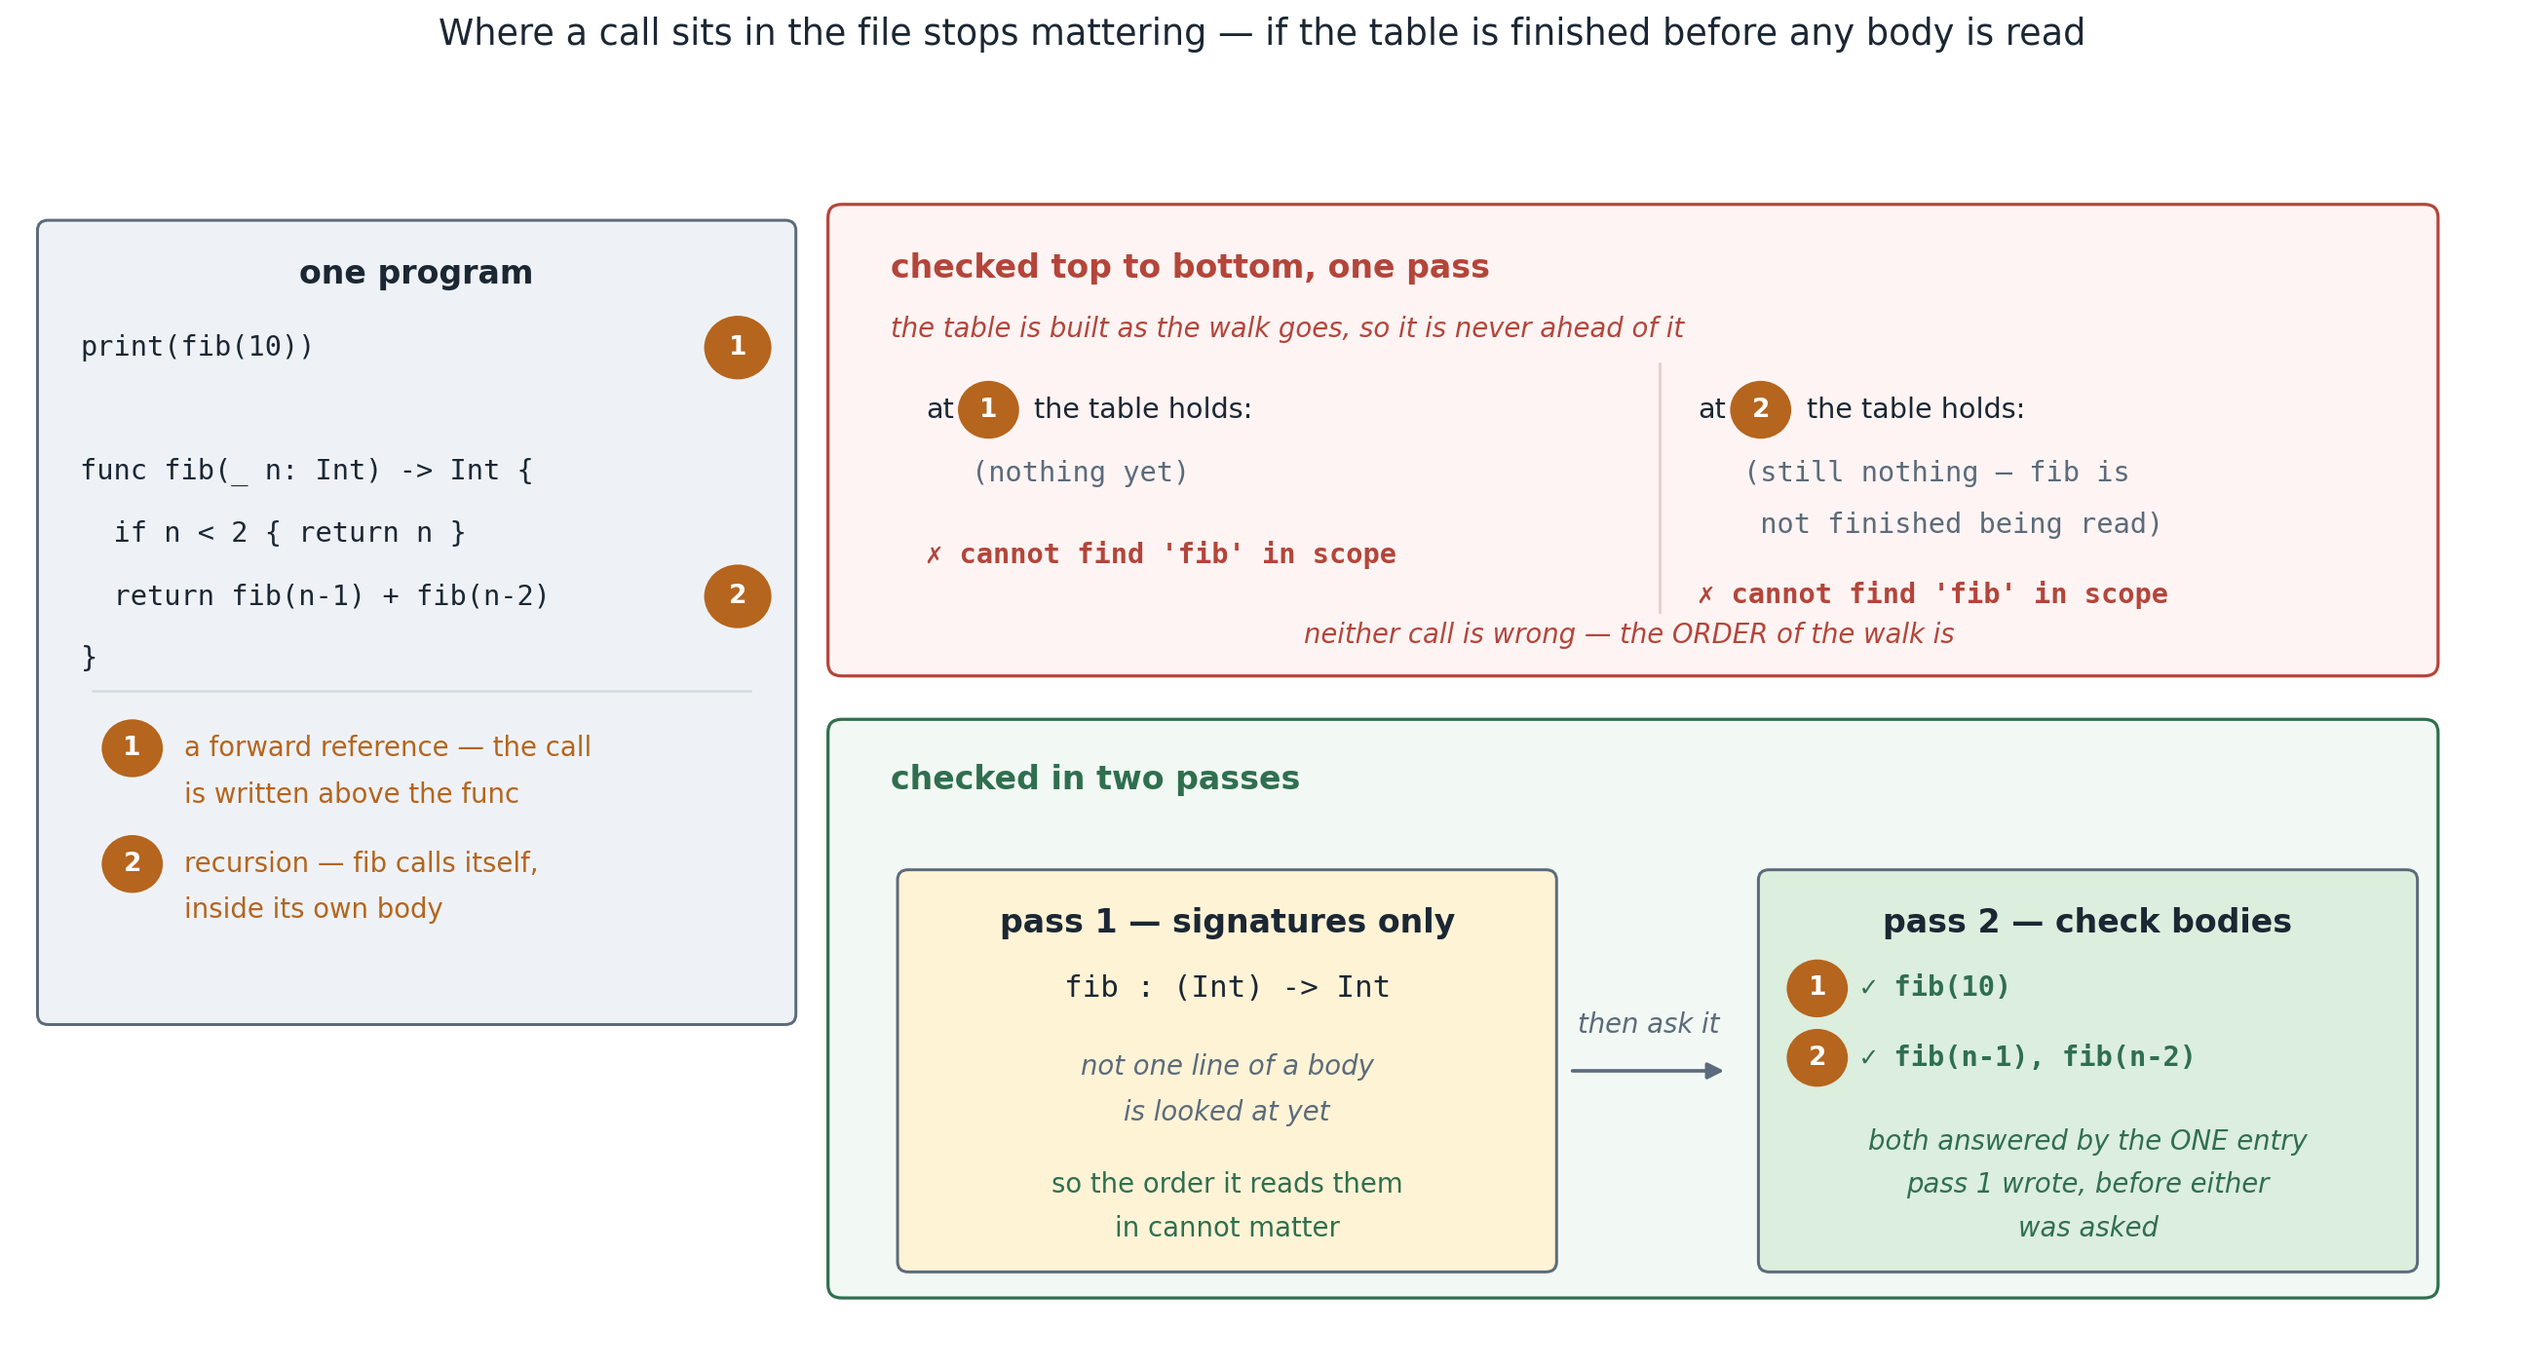
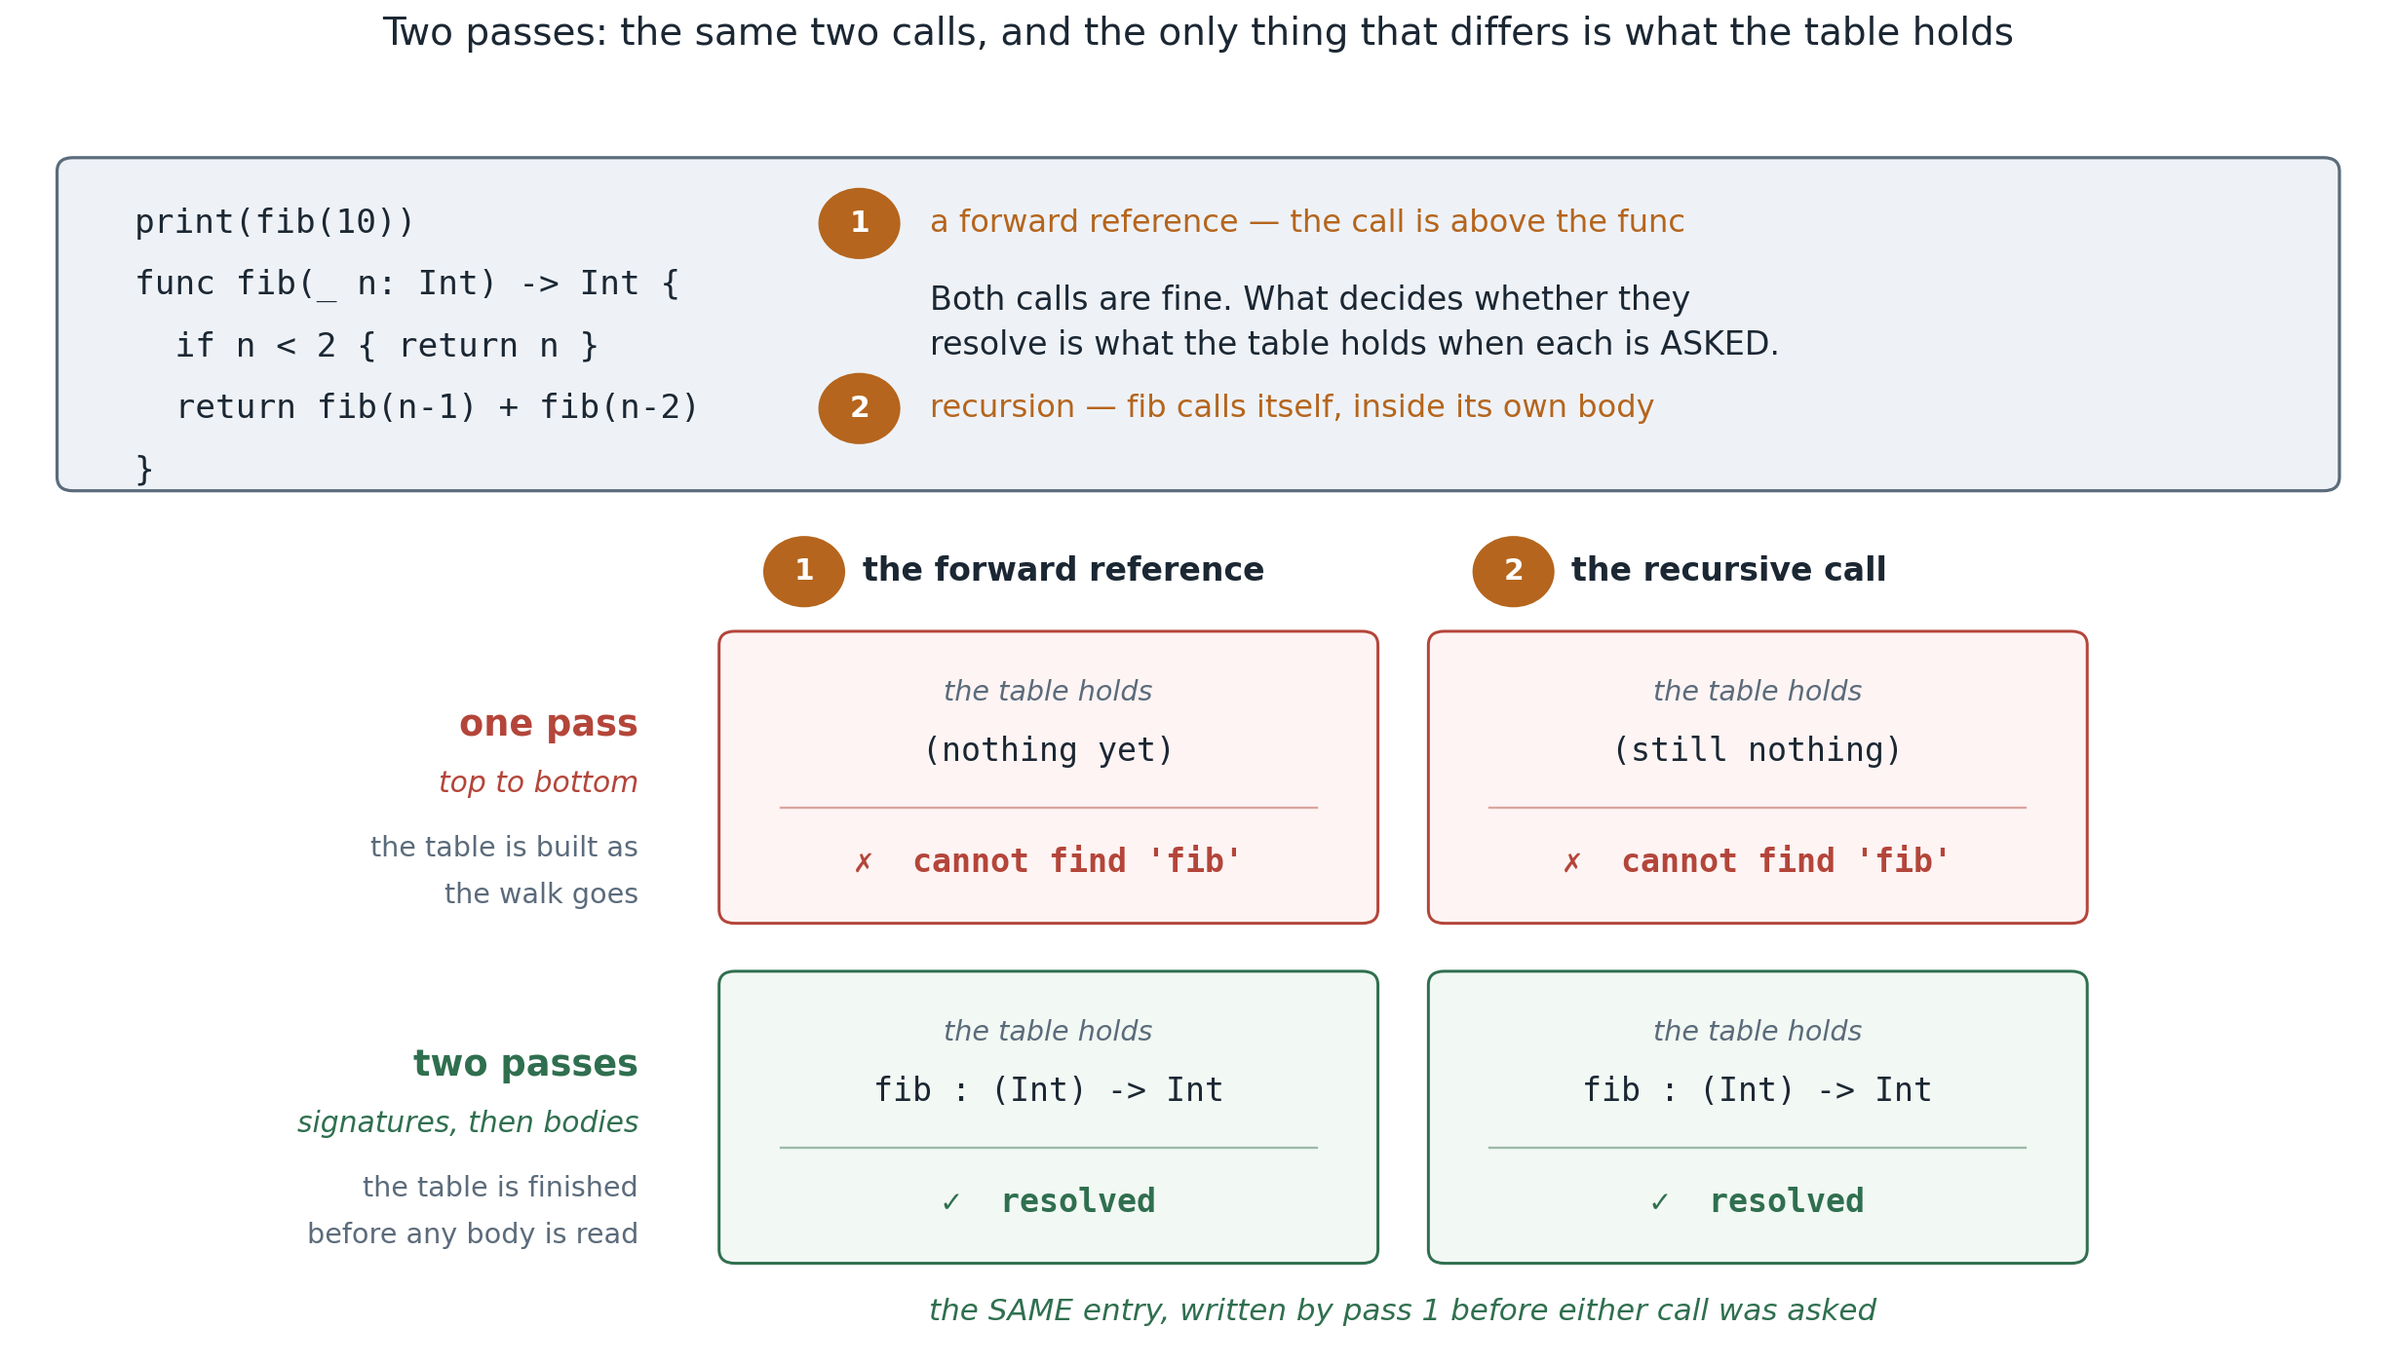
docs(07): reorganise the two-pass figure as a comparison matrix
The panels-and-prose layout spent most of its area on sentences, which capped how
large the type could be. It is now a 2x2 matrix: the same two calls down the
columns, the two walk orders across the rows, and one shared cell shape — what
the table holds, then the verdict.

That makes the argument structural rather than narrated. The four cells differ in
exactly one line each, so "the only thing that differs is what the table holds"
is something the reader sees instead of something the caption claims.

Far fewer words, so the type is much bigger: code 12.5 -> 15, cell contents 12.5
-> 14.5, row labels 14.5 -> 16, title 16 -> 17, badges 11.5 -> 13.

Claude-Session: https://claude.ai/code/session_012HhuWctRnBFnsXUE9JbRuD

diff --git a/course/phase2-types-flow/07-functions/figs/make_figs.py b/course/phase2-types-flow/07-functions/figs/make_figs.py
@@ -4,11 +4,11 @@
     .venv/bin/python phase2-types-flow/07-functions/figs/make_figs.py
 
 Produces:
-    figs/twopass.png — why sema makes TWO passes, shown as the COUNTERFACTUAL: the same
-    program checked top-to-bottom, where both the forward reference and the recursive
-    call fail, and then checked in two passes, where the same two calls are answered by
-    a table that was already complete when they were asked. Showing only the working
-    order makes two passes look like a choice; showing the failing one makes it the fix.
+    figs/twopass.png — why sema makes TWO passes, as a comparison matrix. The same two
+    calls are asked under both walk orders, and the only thing that differs is what the
+    signature table holds at the moment each one is asked. Showing only the working order
+    makes two passes look like a choice somebody made; asking the same questions of both
+    makes it the fix, and puts the reason — the table — in the one column they share.
 """
 import os
 import matplotlib
@@ -30,139 +30,104 @@ BADBG = "#fdf4f3"
 GOOD = "#2f6f4f"
 
 
-def box(ax, cx, cy, w, h, title, color):
-    """A titled panel. Returns the y of the first body line."""
-    ax.add_patch(FancyBboxPatch((cx - w / 2, cy - h / 2), w, h,
-                 boxstyle="round,pad=0.03,rounding_size=0.07", linewidth=1.3,
-                 edgecolor=EDGE, facecolor=color, zorder=1))
-    ax.text(cx, cy + h / 2 - 0.34, title, ha="center", va="center",
-            fontsize=14.5, fontweight="bold", color=TEXT, zorder=4)
-    return cy + h / 2 - 0.86
+def panel(ax, x, y, w, h, face, edge, lw=1.4, z=0):
+    ax.add_patch(FancyBboxPatch((x, y), w, h,
+                 boxstyle="round,pad=0.04,rounding_size=0.10", linewidth=lw,
+                 edgecolor=edge, facecolor=face, zorder=z))
 
 
-def code(ax, x, y, lines, size=12.5, color=TEXT, weight="normal"):
-    """Left-aligned monospace lines; returns the y of each line drawn."""
-    ys = []
-    for i, ln in enumerate(lines):
-        yy = y - i * 0.43
-        ax.text(x, yy, ln, ha="left", va="center", fontsize=size,
-                family="monospace", color=color, zorder=4, fontweight=weight)
-        ys.append(yy)
-    return ys
-
-
-def stage_arrow(ax, x0, x1, y, label):
-    ax.add_patch(FancyArrowPatch((x0, y), (x1, y), arrowstyle="-|>", mutation_scale=15,
-                 linewidth=1.6, color=EDGE, zorder=5))
-    ax.text((x0 + x1) / 2, y + 0.22, label, ha="center", va="bottom",
-            fontsize=12, style="italic", color=DIM, zorder=5)
-
-
-def marker(ax, x, y, text, colour, r=0.22):
-    ax.add_patch(plt.Circle((x, y), r, facecolor=colour, edgecolor="none", zorder=5))
-    ax.text(x, y, text, ha="center", va="center", fontsize=11.5, fontweight="bold",
-            color="white", zorder=6)
-
-
-def verdict(ax, x, y, ok, text, colour, size=12.5):
-    ax.text(x, y, ("\u2713 " if ok else "\u2717 ") + text, ha="left", va="center",
-            fontsize=size, color=colour, fontweight="bold", zorder=4, family="monospace")
+def marker(ax, x, y, text, colour, r=0.26):
+    ax.add_patch(plt.Circle((x, y), r, facecolor=colour, edgecolor="none", zorder=6))
+    ax.text(x, y, text, ha="center", va="center", fontsize=13, fontweight="bold",
+            color="white", zorder=7)
 
 
 def make_twopass():
-    fig, ax = plt.subplots(figsize=(15.8, 8.6))
-    ax.set_xlim(0, 16.3)
-    ax.set_ylim(0, 8.8)
+    fig, ax = plt.subplots(figsize=(15.0, 8.6))
+    ax.set_xlim(0, 15.0)
+    ax.set_ylim(-0.25, 9.0)
     ax.axis("off")
 
-    # ---- the program, once, on the left -------------------------------------------
-    box(ax, 2.62, 5.05, 4.9, 5.5, "one program", SRC)
-    lines = ["print(fib(10))", "", "func fib(_ n: Int) -> Int {", "  if n < 2 { return n }",
-             "  return fib(n-1) + fib(n-2)", "}"]
-    ys = code(ax, 0.42, 6.95, lines, size=12.5)
-    marker(ax, 4.72, ys[0], "1", HL)
-    marker(ax, 4.72, ys[4], "2", HL)
+    # =========================== the program, across the top ======================
+    panel(ax, 0.3, 6.05, 14.4, 2.35, SRC, EDGE)
+    src = ["print(fib(10))", "func fib(_ n: Int) -> Int {", "  if n < 2 { return n }",
+           "  return fib(n-1) + fib(n-2)", "}"]
+    y = 7.96
+    for i, ln in enumerate(src):
+        ax.text(0.75, y, ln, ha="left", va="center", fontsize=15, family="monospace",
+                color=TEXT, zorder=4)
+        if i == 0:
+            marker(ax, 5.35, y, "1", HL)
+            ax.text(5.80, y, "a forward reference \u2014 the call is above the func",
+                    ha="left", va="center", fontsize=14, color=HL, zorder=4)
+        if i == 3:
+            marker(ax, 5.35, y, "2", HL)
+            ax.text(5.80, y, "recursion \u2014 fib calls itself, inside its own body",
+                    ha="left", va="center", fontsize=14, color=HL, zorder=4)
+        y -= 0.45
 
-    ax.plot([0.50, 4.80], [4.58, 4.58], color="#d3dce4", linewidth=1.1, zorder=2)
-    marker(ax, 0.76, 4.18, "1", HL, r=0.20)
-    ax.text(1.10, 4.18, "a forward reference \u2014 the call", ha="left", va="center",
-            fontsize=12, color=HL, zorder=4)
-    ax.text(1.10, 3.86, "is written above the func", ha="left", va="center",
-            fontsize=12, color=HL, zorder=4)
-    marker(ax, 0.76, 3.38, "2", HL, r=0.20)
-    ax.text(1.10, 3.38, "recursion \u2014 fib calls itself,", ha="left", va="center",
-            fontsize=12, color=HL, zorder=4)
-    ax.text(1.10, 3.06, "inside its own body", ha="left", va="center",
-            fontsize=12, color=HL, zorder=4)
+    # the thesis, in the panel's own empty right-hand column
+    ax.text(5.80, 7.40, "Both calls are fine. What decides whether they",
+            ha="left", va="center", fontsize=14.5, color=TEXT, zorder=4)
+    ax.text(5.80, 7.07, "resolve is what the table holds when each is ASKED.",
+            ha="left", va="center", fontsize=14.5, color=TEXT, zorder=4)
 
-    # ---- ROW 1: one pass, top to bottom — both fail --------------------------------
-    ax.add_patch(FancyBboxPatch((5.35, 4.72), 10.45, 3.18,
-                 boxstyle="round,pad=0.04,rounding_size=0.09", linewidth=1.4,
-                 edgecolor=BAD, facecolor=BADBG, zorder=0))
-    ax.text(5.72, 7.50, "checked top to bottom, one pass", ha="left", va="center",
-            fontsize=14.5, fontweight="bold", color=BAD, zorder=4)
-    ax.text(5.72, 7.08, "the table is built as the walk goes, so it is never ahead of it",
-            ha="left", va="center", fontsize=12, color=BAD, style="italic", zorder=4)
+    # =========================== the matrix =======================================
+    COL1, COL2 = 6.55, 11.05        # centres of the two question columns
+    ROWA, ROWB = 3.92, 1.44         # centres of the two regime rows
+    CW, RH = 4.10, 2.05
 
-    ax.text(5.95, 6.52, "at", ha="left", va="center", fontsize=12.5, color=TEXT, zorder=4)
-    marker(ax, 6.36, 6.52, "1", HL, r=0.20)
-    ax.text(6.66, 6.52, "the table holds:", ha="left", va="center", fontsize=12.5,
-            color=TEXT, zorder=4)
-    ax.text(6.25, 6.08, "(nothing yet)", ha="left", va="center", fontsize=12.5,
-            family="monospace", color=DIM, zorder=4)
-    verdict(ax, 5.95, 5.52, False, "cannot find 'fib' in scope", BAD)
+    # column headings
+    for cx, badge, label in [(COL1, "1", "the forward reference"),
+                             (COL2, "2", "the recursive call")]:
+        marker(ax, cx - 1.55, 5.42, badge, HL)
+        ax.text(cx - 1.18, 5.42, label, ha="left", va="center", fontsize=14.5,
+                fontweight="bold", color=TEXT, zorder=4)
 
-    ax.plot([10.75, 10.75], [5.12, 6.84], color="#e6cdca", linewidth=1.2, zorder=1)
+    # row headings
+    ax.text(3.95, ROWA + 0.38, "one pass", ha="right", va="center", fontsize=16,
+            fontweight="bold", color=BAD, zorder=4)
+    ax.text(3.95, ROWA - 0.05, "top to bottom", ha="right", va="center", fontsize=13,
+            color=BAD, style="italic", zorder=4)
+    ax.text(3.95, ROWA - 0.52, "the table is built as", ha="right", va="center",
+            fontsize=12.5, color=DIM, zorder=4)
+    ax.text(3.95, ROWA - 0.86, "the walk goes", ha="right", va="center",
+            fontsize=12.5, color=DIM, zorder=4)
 
-    ax.text(11.00, 6.52, "at", ha="left", va="center", fontsize=12.5, color=TEXT, zorder=4)
-    marker(ax, 11.41, 6.52, "2", HL, r=0.20)
-    ax.text(11.71, 6.52, "the table holds:", ha="left", va="center", fontsize=12.5,
-            color=TEXT, zorder=4)
-    ax.text(11.30, 6.08, "(still nothing \u2014 fib is", ha="left", va="center",
-            fontsize=12.5, family="monospace", color=DIM, zorder=4)
-    ax.text(11.30, 5.72, " not finished being read)", ha="left", va="center",
-            fontsize=12.5, family="monospace", color=DIM, zorder=4)
-    verdict(ax, 11.00, 5.24, False, "cannot find 'fib' in scope", BAD)
+    ax.text(3.95, ROWB + 0.38, "two passes", ha="right", va="center", fontsize=16,
+            fontweight="bold", color=GOOD, zorder=4)
+    ax.text(3.95, ROWB - 0.05, "signatures, then bodies", ha="right", va="center",
+            fontsize=13, color=GOOD, style="italic", zorder=4)
+    ax.text(3.95, ROWB - 0.52, "the table is finished", ha="right", va="center",
+            fontsize=12.5, color=DIM, zorder=4)
+    ax.text(3.95, ROWB - 0.86, "before any body is read", ha="right", va="center",
+            fontsize=12.5, color=DIM, zorder=4)
 
-    ax.text(10.55, 4.96, "neither call is wrong \u2014 the ORDER of the walk is",
-            ha="center", va="center", fontsize=12, color=BAD, style="italic", zorder=4)
+    # the four cells
+    def cell(cx, cy, face, edge, table, verdict_text, verdict_colour, ok):
+        panel(ax, cx - CW / 2, cy - RH / 2, CW, RH, face, edge, lw=1.3)
+        ax.text(cx, cy + 0.62, "the table holds", ha="center", va="center",
+                fontsize=12.5, color=DIM, style="italic", zorder=4)
+        ax.text(cx, cy + 0.19, table, ha="center", va="center", fontsize=14.5,
+                family="monospace", color=TEXT, zorder=4)
+        ax.plot([cx - CW / 2 + 0.35, cx + CW / 2 - 0.35], [cy - 0.22, cy - 0.22],
+                color=edge, linewidth=1, alpha=0.45, zorder=3)
+        ax.text(cx, cy - 0.62, ("\u2713  " if ok else "\u2717  ") + verdict_text,
+                ha="center", va="center", fontsize=14.5, fontweight="bold",
+                color=verdict_colour, zorder=4, family="monospace")
 
-    # ---- ROW 2: two passes — both answered -----------------------------------------
-    ax.add_patch(FancyBboxPatch((5.35, 0.42), 10.45, 3.92,
-                 boxstyle="round,pad=0.04,rounding_size=0.09", linewidth=1.4,
-                 edgecolor=GOOD, facecolor="#f2f8f3", zorder=0))
-    ax.text(5.72, 3.96, "checked in two passes", ha="left", va="center",
-            fontsize=14.5, fontweight="bold", color=GOOD, zorder=4)
+    cell(COL1, ROWA, BADBG, BAD, "(nothing yet)", "cannot find 'fib'", BAD, False)
+    cell(COL2, ROWA, BADBG, BAD, "(still nothing)", "cannot find 'fib'", BAD, False)
+    cell(COL1, ROWB, "#f2f8f3", GOOD, "fib : (Int) -> Int", "resolved", GOOD, True)
+    cell(COL2, ROWB, "#f2f8f3", GOOD, "fib : (Int) -> Int", "resolved", GOOD, True)
 
-    box(ax, 7.92, 1.95, 4.25, 2.72, "pass 1 \u2014 signatures only", TAB)
-    ax.text(7.92, 2.52, "fib : (Int) -> Int", ha="center", va="center", fontsize=13.5,
-            family="monospace", color=TEXT, zorder=4)
-    ax.text(7.92, 1.98, "not one line of a body", ha="center", va="center", fontsize=12,
-            color=DIM, style="italic", zorder=4)
-    ax.text(7.92, 1.66, "is looked at yet", ha="center", va="center", fontsize=12,
-            color=DIM, style="italic", zorder=4)
-    ax.text(7.92, 1.16, "so the order it reads them", ha="center", va="center",
-            fontsize=12, color=GOOD, zorder=4)
-    ax.text(7.92, 0.86, "in cannot matter", ha="center", va="center",
-            fontsize=12, color=GOOD, zorder=4)
+    # the one entry answers both — drawn as a brace under the green row
+    ax.text(8.8, 0.02, "the SAME entry, written by pass 1 before either call was asked",
+            ha="center", va="center", fontsize=13.5, color=GOOD, style="italic", zorder=4)
 
-    stage_arrow(ax, 10.15, 11.20, 1.95, "then ask it")
-
-    box(ax, 13.55, 1.95, 4.25, 2.72, "pass 2 \u2014 check bodies", CHK)
-    marker(ax, 11.78, 2.52, "1", HL, r=0.20)
-    verdict(ax, 12.06, 2.52, True, "fib(10)", GOOD)
-    marker(ax, 11.78, 2.04, "2", HL, r=0.20)
-    verdict(ax, 12.06, 2.04, True, "fib(n-1), fib(n-2)", GOOD)
-    ax.text(13.55, 1.46, "both answered by the ONE entry", ha="center", va="center",
-            fontsize=12, color=GOOD, style="italic", zorder=4)
-    ax.text(13.55, 1.16, "pass 1 wrote, before either", ha="center", va="center",
-            fontsize=12, color=GOOD, style="italic", zorder=4)
-    ax.text(13.55, 0.86, "was asked", ha="center", va="center",
-            fontsize=12, color=GOOD, style="italic", zorder=4)
-
-    ax.set_title("Where a call sits in the file stops mattering \u2014 if the table is "
-                 "finished before any body is read",
-                 fontsize=16, color=TEXT, pad=16)
+    ax.set_title("Two passes: the same two calls, and the only thing that differs is "
+                 "what the table holds",
+                 fontsize=17, color=TEXT, pad=16)
     fig.tight_layout()
     out = os.path.join(HERE, "twopass.png")
     fig.savefig(out, dpi=165, bbox_inches="tight")
